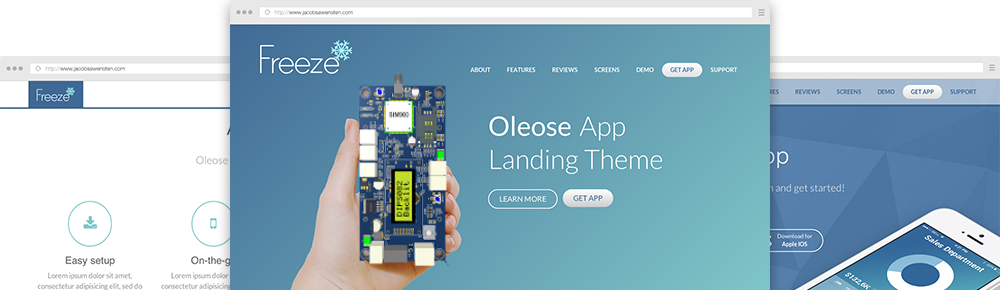
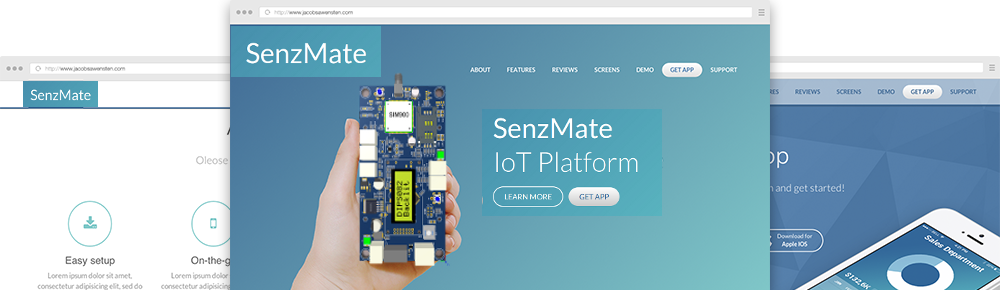
Modi 1

Changed region(s): [[0.465, 0.4034, 0.682, 0.7448], [0.217, 0.0621, 0.403, 0.2793], [0.0, 0.2793, 0.124, 0.3724]]

diff --git a/index.html b/index.html
@@ -8,7 +8,7 @@
 
 <head>
     <meta charset="UTF-8">
-    <title>SenzMate Landing Page</title>
+    <title>SenzMate.com</title>
     <meta name="viewport" content="width=device-width, initial-scale=1.0, maximum-scale=1.0, user-scalable=no">
     <meta http-equiv="X-UA-Compatible" content="IE=edge,chrome=1" />
     <link rel="shortcut icon" href="favicon.jpg">
@@ -116,13 +116,13 @@
                         </div>
 
                         <div class="tp-caption large_white_bold sft" data-x="550" data-y="center" data-hoffset="0" data-voffset="-80" data-speed="500" data-start="1200" data-easing="Power4.easeOut">
-                            Oleose
+                            SenzMate
                         </div>
-                        <div class="tp-caption large_white_light sfr" data-x="770" data-y="center" data-hoffset="0" data-voffset="-80" data-speed="500" data-start="1400" data-easing="Power4.easeOut">
+                       <!-- <div class="tp-caption large_white_light sfr" data-x="770" data-y="center" data-hoffset="0" data-voffset="-80" data-speed="500" data-start="1400" data-easing="Power4.easeOut">
                             App
-                        </div>
+                        </div>-->
                         <div class="tp-caption large_white_light sfb" data-x="550" data-y="center" data-hoffset="0" data-voffset="0" data-speed="1000" data-start="1500" data-easing="Power4.easeOut">
-                            Landing Theme
+                            IoT Platform
                         </div>
 
                         <div class="tp-caption sfb hidden-xs" data-x="550" data-y="center" data-hoffset="0" data-voffset="85" data-speed="1000" data-start="1700" data-easing="Power4.easeOut">
@@ -152,7 +152,7 @@
 
                         
                         <div class="tp-caption large_white_light sft" data-x="center" data-y="250" data-hoffset="0" data-voffset="0" data-speed="1000" data-start="1400" data-easing="Power4.easeOut">
-                            Every Pixel <i class="fa fa-heart"></i>
+                            Every Application <i class="fa fa-heart"></i>
                         </div>
                         
                         
@@ -511,7 +511,7 @@
                                         <i class="fa fa-map-marker fa-2x"></i>
                                     </a>
                                     <div class="media-body">
-                                        <h4 class="media-heading">4, University of Moratuwa, Moratuwa, Sri Lanka</h4>
+                                        <h4 class="media-heading">81/5, R.G.Senanayake Mawatha, Colombo 7, Sri Lanka</h4>
                                     </div>
                                 </div>
                                 <div class="media">
@@ -520,7 +520,7 @@
                                     </a>
                                     <div class="media-body">
                                         <h4 class="media-heading">
-                                            <a href="mailto:support@oleose.com">support@tacklers.com</a>
+                                            <a href="mailto:support@oleose.com">senzmate@gmail.com</a>
                                         </h4>
                                     </div>
                                 </div>
@@ -550,8 +550,8 @@
                     <a href="#" class="scrollpoint sp-effect3"><i class="fa fa-facebook fa-lg"></i></a>
                 </div>
                 <div class="rights">
-                    <p>Copyright &copy; 2014</p>
-                    <p>Template by <a href="http://www.scoopthemes.com" target="_blank">ScoopThemes</a></p>
+                    <p>Copyright &copy; 2015</p>
+                    <p>Owned by <a href="index.html" target="_blank">SenzMate</a></p>
                 </div>
             </div>
         </footer>
